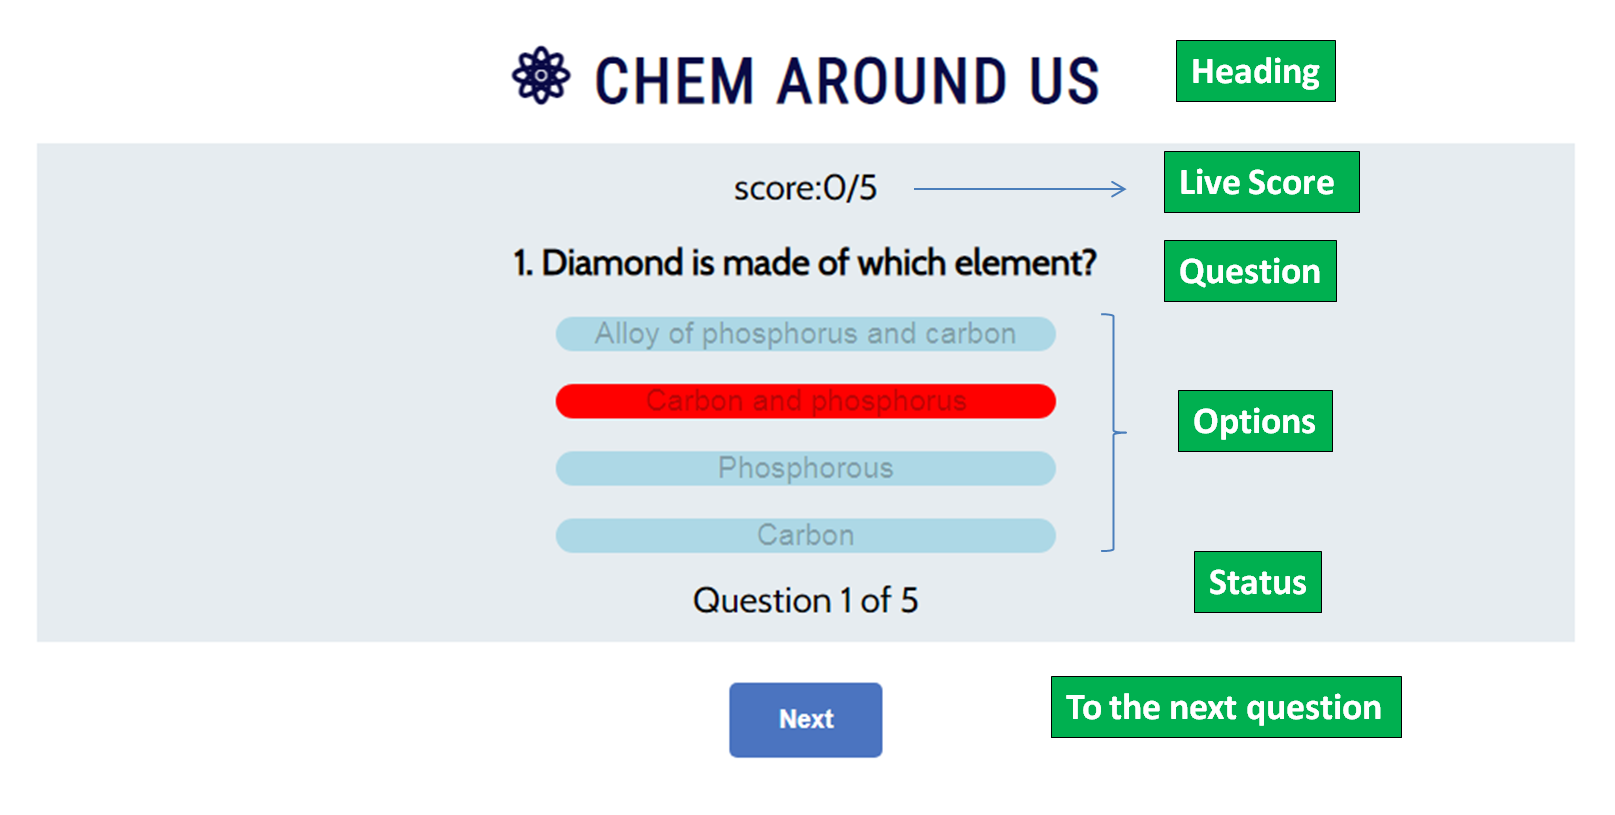
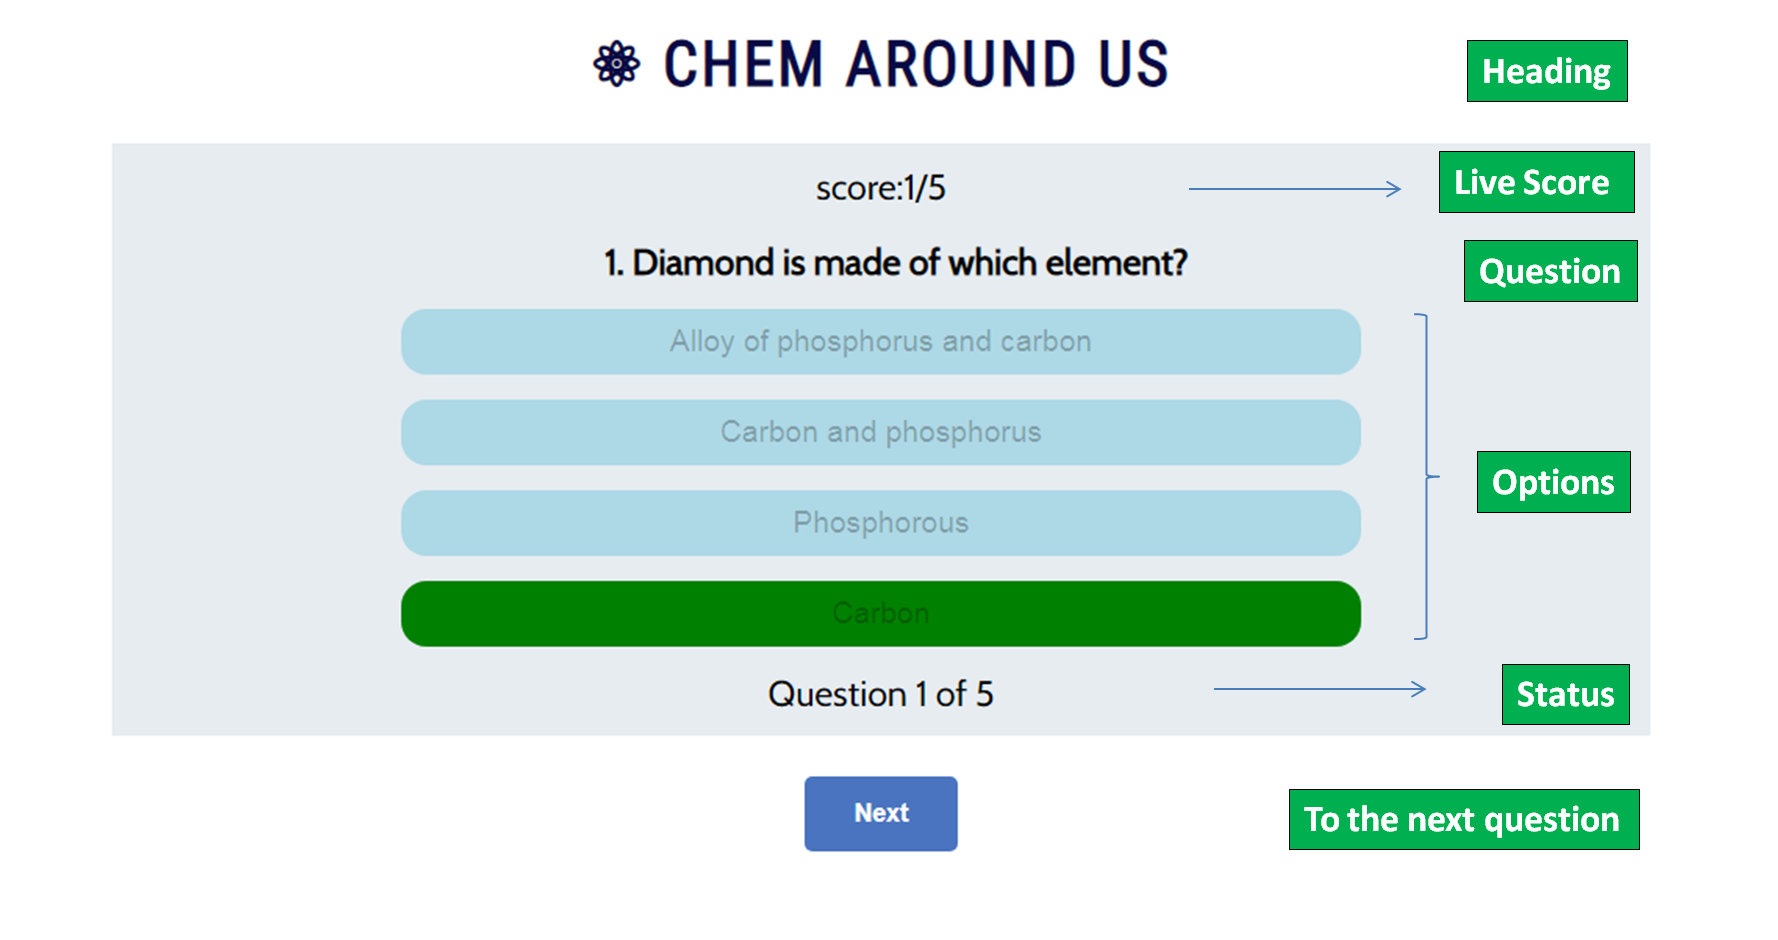
revised quiz box features in README

diff --git a/README.md b/README.md
@@ -94,7 +94,7 @@ A chemistry based informative Quiz for all. The inspiration is to provide a smal
 
 - <h3 id= "quiz"> Quiz Section</h3>
     The quiz area will initially contain just question and answers. When an option is clicked, a live-score area and the status information gets added to the quiz area. 
-    <img src = "assets/docs/quiz_box.png">
+    <img src = "assets/docs/quiz_before_after.png">
     Quiz section contains header that is consistent with the landing section. The area is divided into the categories as shown below.
     <img src = "assets/docs/quiz_box_detail.png">
     
@@ -185,6 +185,7 @@ After recieving Mentor's suggestion on keeping no additional page and it is bett
     - Navigate to the 'Pages' tab on the left of the page.
     - Go to the 'Build and deployment' section, select 'Deploy from a branch' in the <i>source</i> dropdown.
     - Select branch 'main' and click on 'Save'.
+    - Deployment link generated: https://roshnavakkeel.github.io/Chem_Around_Us/
 
 - <h3 id= "fork"> Forking Repository on GitHub </h3>
 
